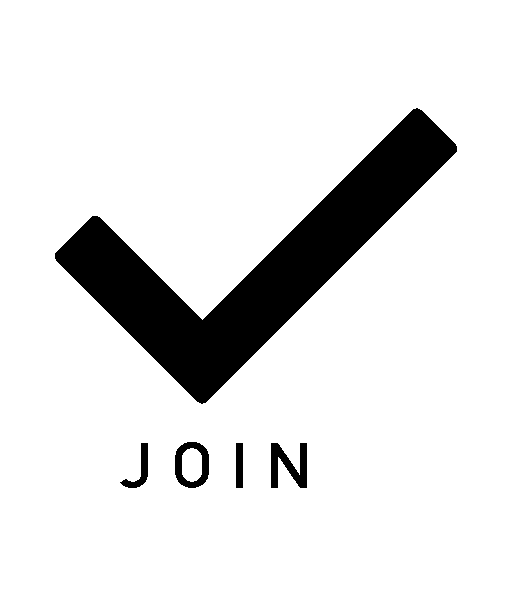
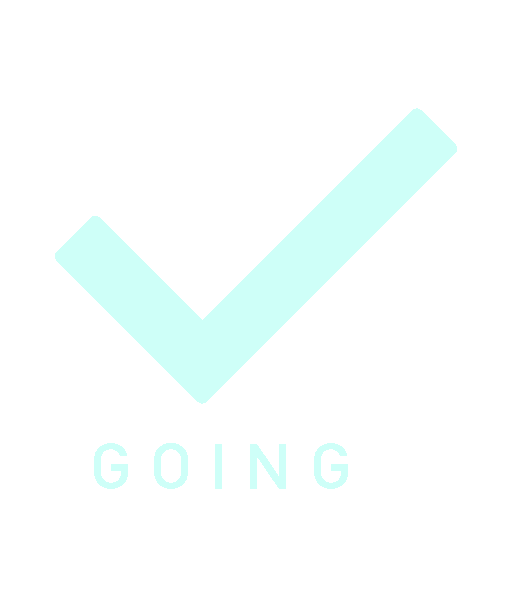
events css

Changed region(s): [[0.0938, 0.1803, 0.9062, 0.6912], [0.1875, 0.7212, 0.6875, 0.8414]]

diff --git a/app/views/partials/events/view.html b/app/views/partials/events/view.html
@@ -10,16 +10,15 @@
             <p>{{prices[event.price-1]}} {{event.time}}</p>
         </div>
 
-        <p>Description: {{event.description}}</p>
-
         <div ng-show="event.location">
-            <p>Location: 
+            <!-- <p>Location:  -->
                 <a ng-click="showMap = !showMap">
                     <strong>{{eventLocationName}}</strong>, {{eventLocationAdress}}
                 </a>
-            </p>
+            <!-- </p> -->
             <div id="viewLocationMap" ng-show="showMap"></div>
         </div>
+        <p>Description: {{event.description}}</p>
 
         <p>People Needed: {{event.peopleNeeded}}</p>
         <p>Attending: {{event.attendees}}</p>
@@ -37,8 +36,8 @@
     <div id="event-nav" ng-show="currentUser">
         <div id="going">
             <a ng-click="showGoing = !showGoing; joinEvent($event)">
-                <img id="going-img" src="/static/img/interface19_activate.png" width="55" ng-show="showGoing">
-                <img id="going-img" src="/static/img/check35.png" width="55" ng-show="!showGoing">
+                <img id="going-img" src="/static/img/check35.png" width="55" ng-show="showGoing">
+                <img id="going-img" src="/static/img/question30.png" width="55" ng-show="!showGoing">
             </a>
         </div>
         <div id="post">
@@ -63,7 +62,7 @@
         <div ng-show="showPost">
             <form class="form-horizontal" ng-submit="addComment()" ng-show="currentUser">
                 <div class="form-group">
-                    <label class="control-label" for="newComment">Comment</label>
+                    <label class="control-label" for="newComment" id="newComment">Comment</label>
                     <div class="controls">
                         <textarea ng-model="newComment" class="form-control" id="newComment" rows="4" placeholder="Comment"></textarea>
                     </div>

diff --git a/app/static/css/main.css b/app/static/css/main.css
@@ -19,6 +19,10 @@
   margin-top: 16px;
 }
 
+#new-comment{
+  margin-left:15px;
+}
+
 .browsehappy {
     margin: 0.2em 0;
     background: #ccc;
